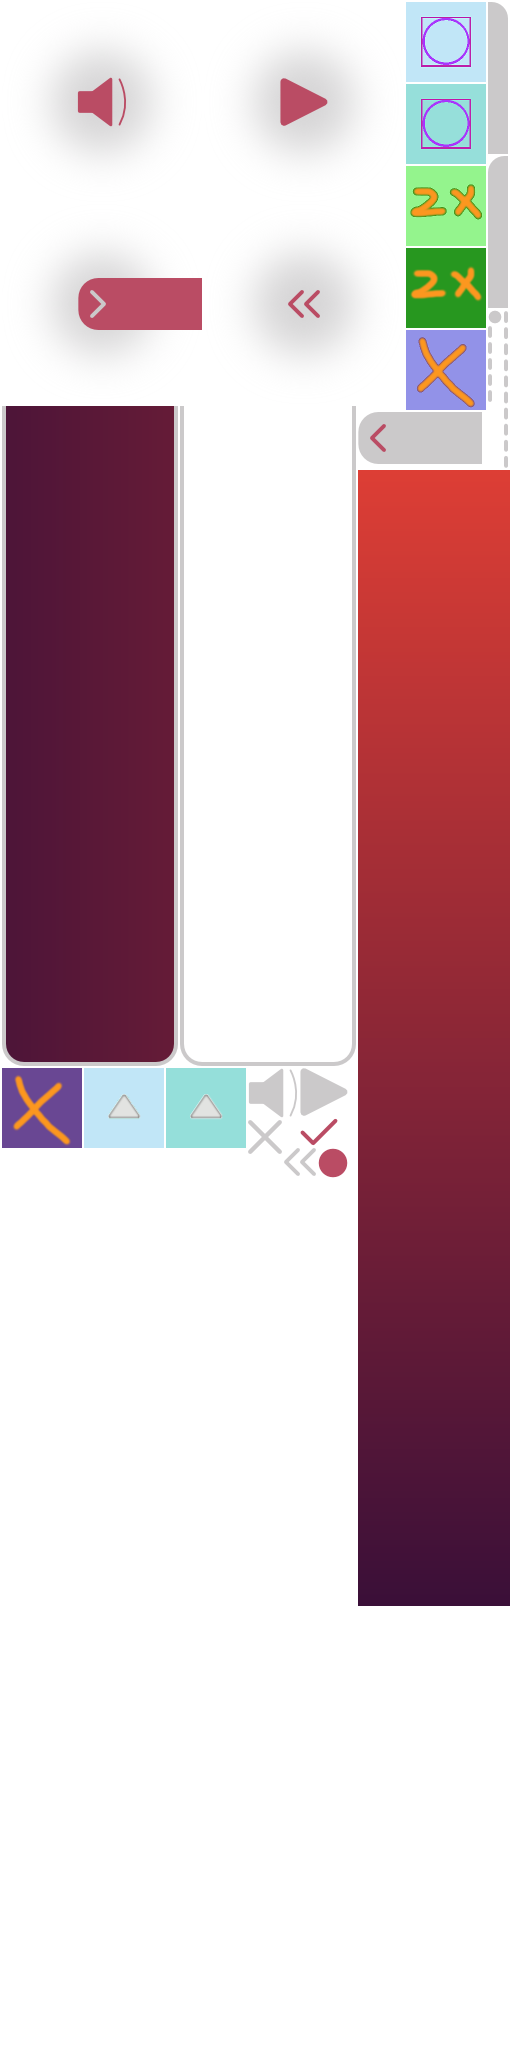
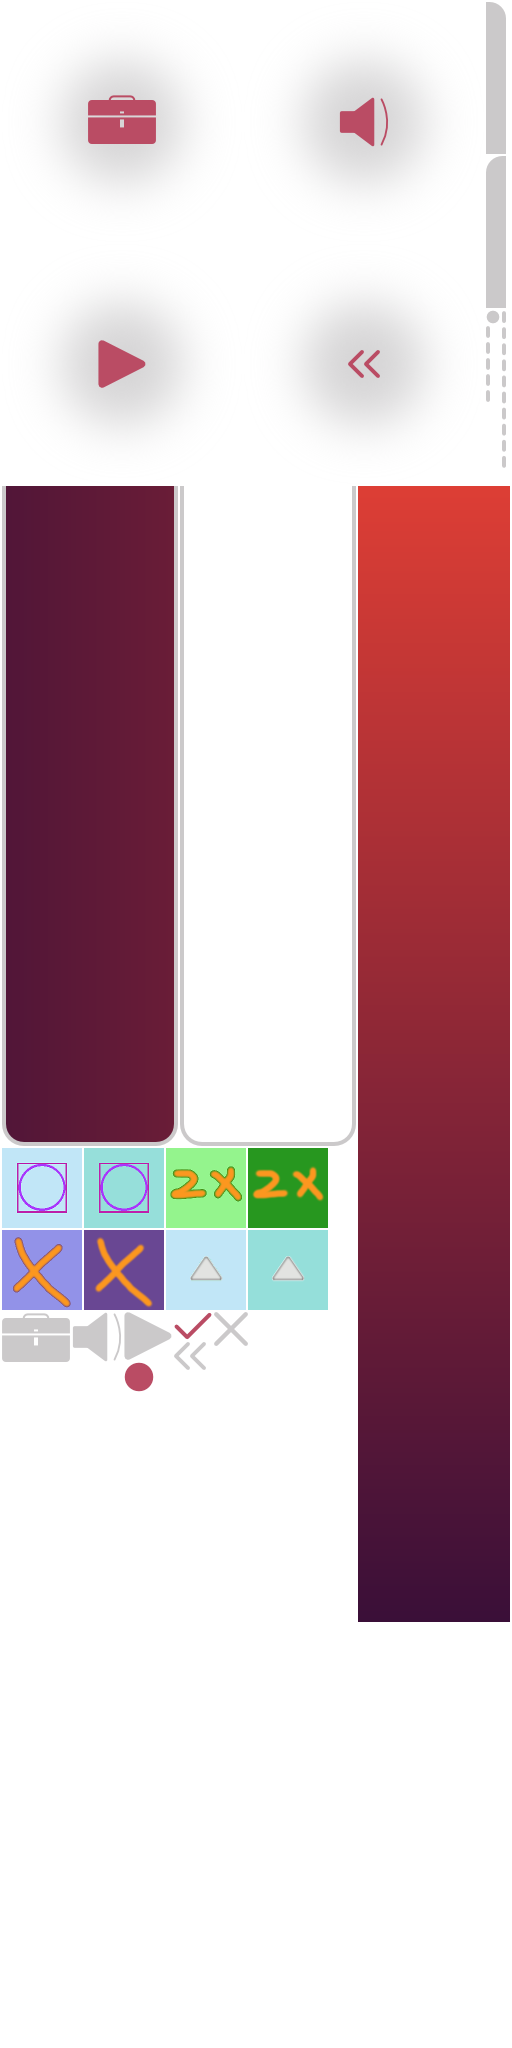
toolbox button replaces sliding item button

diff --git a/PttrnFlow/PttrnFlow/Layers/SequenceUILayer.m b/PttrnFlow/PttrnFlow/Layers/SequenceUILayer.m
@@ -21,10 +21,11 @@
 
 static int const kMaxControlLengthFull = 8;
 static int const kMaxControlLengthCompact = 6;
-static CGFloat const kControlStepWidth = 40;
+static CGFloat const kTimelineStepWidth = 40;
 static CGFloat const kTimeLineRowHeight = 44;
-static CGFloat const kControlsRowHeight = 64; // use as bottom of control bar gradient image offset
-static CGFloat const kItemMenuBottom = 64; // use as the bottom of the right gradient image
+static CGFloat const kControlsRowHeight = 80; // use as bottom of timeline background image asset offset
+static CGFloat const kControlsButtonWidth = 320 / 4;
+static CGFloat const kItemMenuBottom = 80;
 static CGFloat const kUIPadding = 4;
 static CGFloat const kLineWidth = 2;
 static CGFloat const kItemMenuRowHeight = 80;
@@ -38,7 +39,6 @@ static GLubyte const kPanelMaskOpacity = 255 * 0.92;
 // size and positions
 @property (assign) int steps;
 @property (assign) BOOL menuOpen;
-@property (assign) CGFloat controlsButtonLength;
 @property (assign) CGFloat itemsToggleOpenX;
 @property (assign) CGSize buttonAssetSize;
 
@@ -73,7 +73,6 @@ static GLubyte const kPanelMaskOpacity = 255 * 0.92;
         CCSprite *itemMenuBottomCap = [CCSprite spriteWithSpriteFrameName:@"item_menu_bottom.png"];
         static CGFloat itemsToggleOpenOffset = 10;
         _itemsToggleOpenX = (self.contentSize.width - itemMenuBottomCap.contentSize.width) - itemsToggleOpenOffset;
-        _controlsButtonLength = (self.itemsToggleOpenX / 7) * 2;
         CCSprite *exitOff = [CCSprite spriteWithSpriteFrameName:@"exit_off.png"];
         _buttonAssetSize = exitOff.contentSize;
         
@@ -84,31 +83,31 @@ static GLubyte const kPanelMaskOpacity = 255 * 0.92;
         // exit button bottom left
         CCSprite *exitOn = [CCSprite spriteWithSpriteFrameName:@"exit_on.png"];
         CCMenuItemSprite *exitButton = [[CCMenuItemSprite alloc] initWithNormalSprite:exitOff selectedSprite:exitOn disabledSprite:nil target:self selector:@selector(exitPressed:)];
-        exitButton.position = ccp(self.controlsButtonLength / 2, kControlsRowHeight / 2);
+        exitButton.position = ccp(kControlsButtonWidth / 2, kControlsRowHeight / 2);
         
         // speaker button
         CCSprite *speakerOff = [CCSprite spriteWithSpriteFrameName:@"speaker_off.png"];
         CCSprite *speakerOn = [CCSprite spriteWithSpriteFrameName:@"speaker_on.png"];
         CCMenuItemSprite *speakerButton = [[CCMenuItemSprite alloc] initWithNormalSprite:speakerOff selectedSprite:speakerOn disabledSprite:nil target:self selector:@selector(speakerPressed:)];
-        speakerButton.position = ccp((3 * self.controlsButtonLength) / 2, kControlsRowHeight / 2);
+        speakerButton.position = ccp((3 * kControlsButtonWidth) / 2, kControlsRowHeight / 2);
         
         // play button
         CCSprite *playOff = [CCSprite spriteWithSpriteFrameName:@"play_off.png"];
         CCSprite *playOn = [CCSprite spriteWithSpriteFrameName:@"play_on.png"];
         CCMenuItemSprite *playButton = [[CCMenuItemSprite alloc] initWithNormalSprite:playOff selectedSprite:playOn disabledSprite:nil target:self selector:@selector(playButtonPressed:)];
-        playButton.position = ccp((5 * self.controlsButtonLength) / 2, kControlsRowHeight / 2);
+        playButton.position = ccp((5 * kControlsButtonWidth) / 2, kControlsRowHeight / 2);
         
-        // items button (drop down menu) top right
-        CCSprite *itemsButtonOff1 = [CCSprite spriteWithSpriteFrameName:@"items_button_off.png"];
-        CCSprite *itemsButtonOn1 = [CCSprite spriteWithSpriteFrameName:@"items_button_on.png"];
+        // toolbox (item menu) button
+        CCSprite *itemsButtonOff1 = [CCSprite spriteWithSpriteFrameName:@"toolbox_off.png"];
+        CCSprite *itemsButtonOn1 = [CCSprite spriteWithSpriteFrameName:@"toolbox_on.png"];
         CCMenuItemSprite *itemsButtonOffItem = [CCMenuItemSprite itemWithNormalSprite:itemsButtonOff1 selectedSprite:itemsButtonOn1];
-        CCSprite *itemsButtonOff2 = [CCSprite spriteWithSpriteFrameName:@"items_button_off.png"];
-        CCSprite *itemsButtonOn2 = [CCSprite spriteWithSpriteFrameName:@"items_button_on.png"];
+        CCSprite *itemsButtonOff2 = [CCSprite spriteWithSpriteFrameName:@"toolbox_off.png"];
+        CCSprite *itemsButtonOn2 = [CCSprite spriteWithSpriteFrameName:@"toolbox_on.png"];
         CCMenuItemSprite *itemsButtonOnItem = [CCMenuItemSprite itemWithNormalSprite:itemsButtonOn2 selectedSprite:itemsButtonOff2];
         
         CCMenuItemToggle *itemsToggle = [CCMenuItemToggle itemWithTarget:self selector:@selector(itemsButtonPressed:) items:itemsButtonOffItem, itemsButtonOnItem, nil];
         _itemsToggle = itemsToggle;
-        itemsToggle.position = [self itemsToggleOriginOpened:NO];
+        _itemsToggle.position = ccp((7 * kControlsButtonWidth) / 2, kControlsRowHeight / 2);
         
         // buttons must be added to a CCMenu to work
         CCMenu *menu = [CCMenu menuWithItems:exitButton, speakerButton, playButton, itemsToggle, nil];
@@ -118,13 +117,13 @@ static GLubyte const kPanelMaskOpacity = 255 * 0.92;
         
         int steps = (tickDispatcher.sequenceLength / 4);
         self.steps = steps;
-        TickerControl *tickerControl = [[TickerControl alloc] initWithSpriteFrameName:kClearRectUILayer steps:steps unitSize:CGSizeMake(kControlStepWidth, kTimeLineRowHeight)];
+        TickerControl *tickerControl = [[TickerControl alloc] initWithSpriteFrameName:kClearRectUILayer steps:steps unitSize:CGSizeMake(kTimelineStepWidth, kTimeLineRowHeight)];
         _tickerControl = tickerControl;
         tickerControl.tickerControlDelegate = tickDispatcher;
         tickerControl.position = ccp(tickerControl.contentSize.width / 2, (3 * tickerControl.contentSize.height) / 2);
         
         // hit chart
-        TickHitChart *hitChart = [[TickHitChart alloc] initWithSpriteFrameName:kClearRectUILayer steps:steps unitSize:CGSizeMake(kControlStepWidth, kTimeLineRowHeight)];
+        TickHitChart *hitChart = [[TickHitChart alloc] initWithSpriteFrameName:kClearRectUILayer steps:steps unitSize:CGSizeMake(kTimelineStepWidth, kTimeLineRowHeight)];
         _hitChart = hitChart;
         hitChart.position = ccp(hitChart.contentSize.width / 2, hitChart.contentSize.height / 2);
         
@@ -133,9 +132,9 @@ static GLubyte const kPanelMaskOpacity = 255 * 0.92;
         dotSeparator.position = ccp(dotSeparator.contentSize.width / 2, kTimeLineRowHeight);
         
         // pan sprite
-        CGFloat panNodeWidth = MIN(steps, kMaxControlLengthFull) * kControlStepWidth;
+        CGFloat panNodeWidth = MIN(steps, kMaxControlLengthFull) * kTimelineStepWidth;
         CGSize panNodeSize = CGSizeMake(panNodeWidth, 2 * kTimeLineRowHeight);
-        CGSize scrollingContainerSize = CGSizeMake(steps * kControlStepWidth, panNodeSize.height);
+        CGSize scrollingContainerSize = CGSizeMake(steps * kTimelineStepWidth, panNodeSize.height);
         CGPoint panNodeOrigin = ccp(0, kControlsRowHeight);
         PanSprite *panSprite = [[PanSprite alloc] initWithSpriteFrameName:kClearRectUILayer contentSize:panNodeSize scrollingSize:scrollingContainerSize scrollSprites:@[hitChart, tickerControl, dotSeparator]];
         _panSprite = panSprite;
@@ -235,18 +234,6 @@ static GLubyte const kPanelMaskOpacity = 255 * 0.92;
     return ccp([self itemMenuLeftOpened:opened], kItemMenuBottom + self.itemMenuBottomCap.contentSize.height);
 }
 
-- (CGPoint)itemsToggleOriginOpened:(BOOL)opened
-{
-    if (opened) {
-        CGFloat visualCenterX = (7 * self.controlsButtonLength) / 2;
-        CGFloat imageSizeCorrectionX = (self.itemsToggle.contentSize.width - self.buttonAssetSize.width) / 2;
-        CGFloat x = visualCenterX - imageSizeCorrectionX;
-
-        return ccp(x, kControlsRowHeight / 2);
-    }
-    return ccp(self.contentSize.width - (self.itemsToggle.contentSize.width / 2), kControlsRowHeight / 2);
-}
-
 - (void)configureItemMenuOpened:(BOOL)opened animated:(BOOL)animated
 {
     int unitWidth = MIN(self.steps, kMaxControlLengthFull);
@@ -255,7 +242,7 @@ static GLubyte const kPanelMaskOpacity = 255 * 0.92;
     }
     
     // timeline
-    CGFloat xOffset = -(kMaxControlLengthFull - unitWidth) * kControlStepWidth;
+    CGFloat xOffset = -(kMaxControlLengthFull - unitWidth) * kTimelineStepWidth;
     if (xOffset < 0){
         xOffset -= (self.timelineBorder.contentSize.width - self.contentSize.width);
         if (unitWidth == kMaxControlLengthCompact) {
@@ -267,13 +254,13 @@ static GLubyte const kPanelMaskOpacity = 255 * 0.92;
     // pan sprite
     CGFloat panSpriteWidth;
     if ( xOffset < 0) {
-        panSpriteWidth = (unitWidth * kControlStepWidth);
+        panSpriteWidth = (unitWidth * kTimelineStepWidth);
         if (unitWidth == kMaxControlLengthCompact) {
             panSpriteWidth -= (kUIPadding + kLineWidth);
         }
     }
     else {
-        panSpriteWidth = (unitWidth * kControlStepWidth);
+        panSpriteWidth = (unitWidth * kTimelineStepWidth);
     }
     
     // item menu
@@ -320,11 +307,6 @@ static GLubyte const kPanelMaskOpacity = 255 * 0.92;
         CCEaseSineInOut *easeMenuMask = [CCEaseSineOut actionWithAction:moveMenuMask];
         [self.rightGradientMask runAction:easeMenuMask];
         
-        // item menu toggle button
-        CCMoveTo *moveItemToggle = [CCMoveTo actionWithDuration:kTransitionDuration position:[self itemsToggleOriginOpened:opened]];
-        CCEaseSineInOut *easeItemToggle = [CCEaseSineInOut actionWithAction:moveItemToggle];
-        [self.itemsToggle runAction:easeItemToggle];
-        
         // update callback for pan node interior tracking
         [self scheduleUpdate];
     }
@@ -337,7 +319,6 @@ static GLubyte const kPanelMaskOpacity = 255 * 0.92;
         self.itemMenuLeftSeparator.position = itemMenuLeftSeparatorPos;
         self.itemMenuTopCap.position = itemMenuTopCapPos;
         self.rightGradientMask.position = [self itemMenuOriginOpened:opened];
-        self.itemsToggle.position = [self itemsToggleOriginOpened:opened];
     }
 }
 
